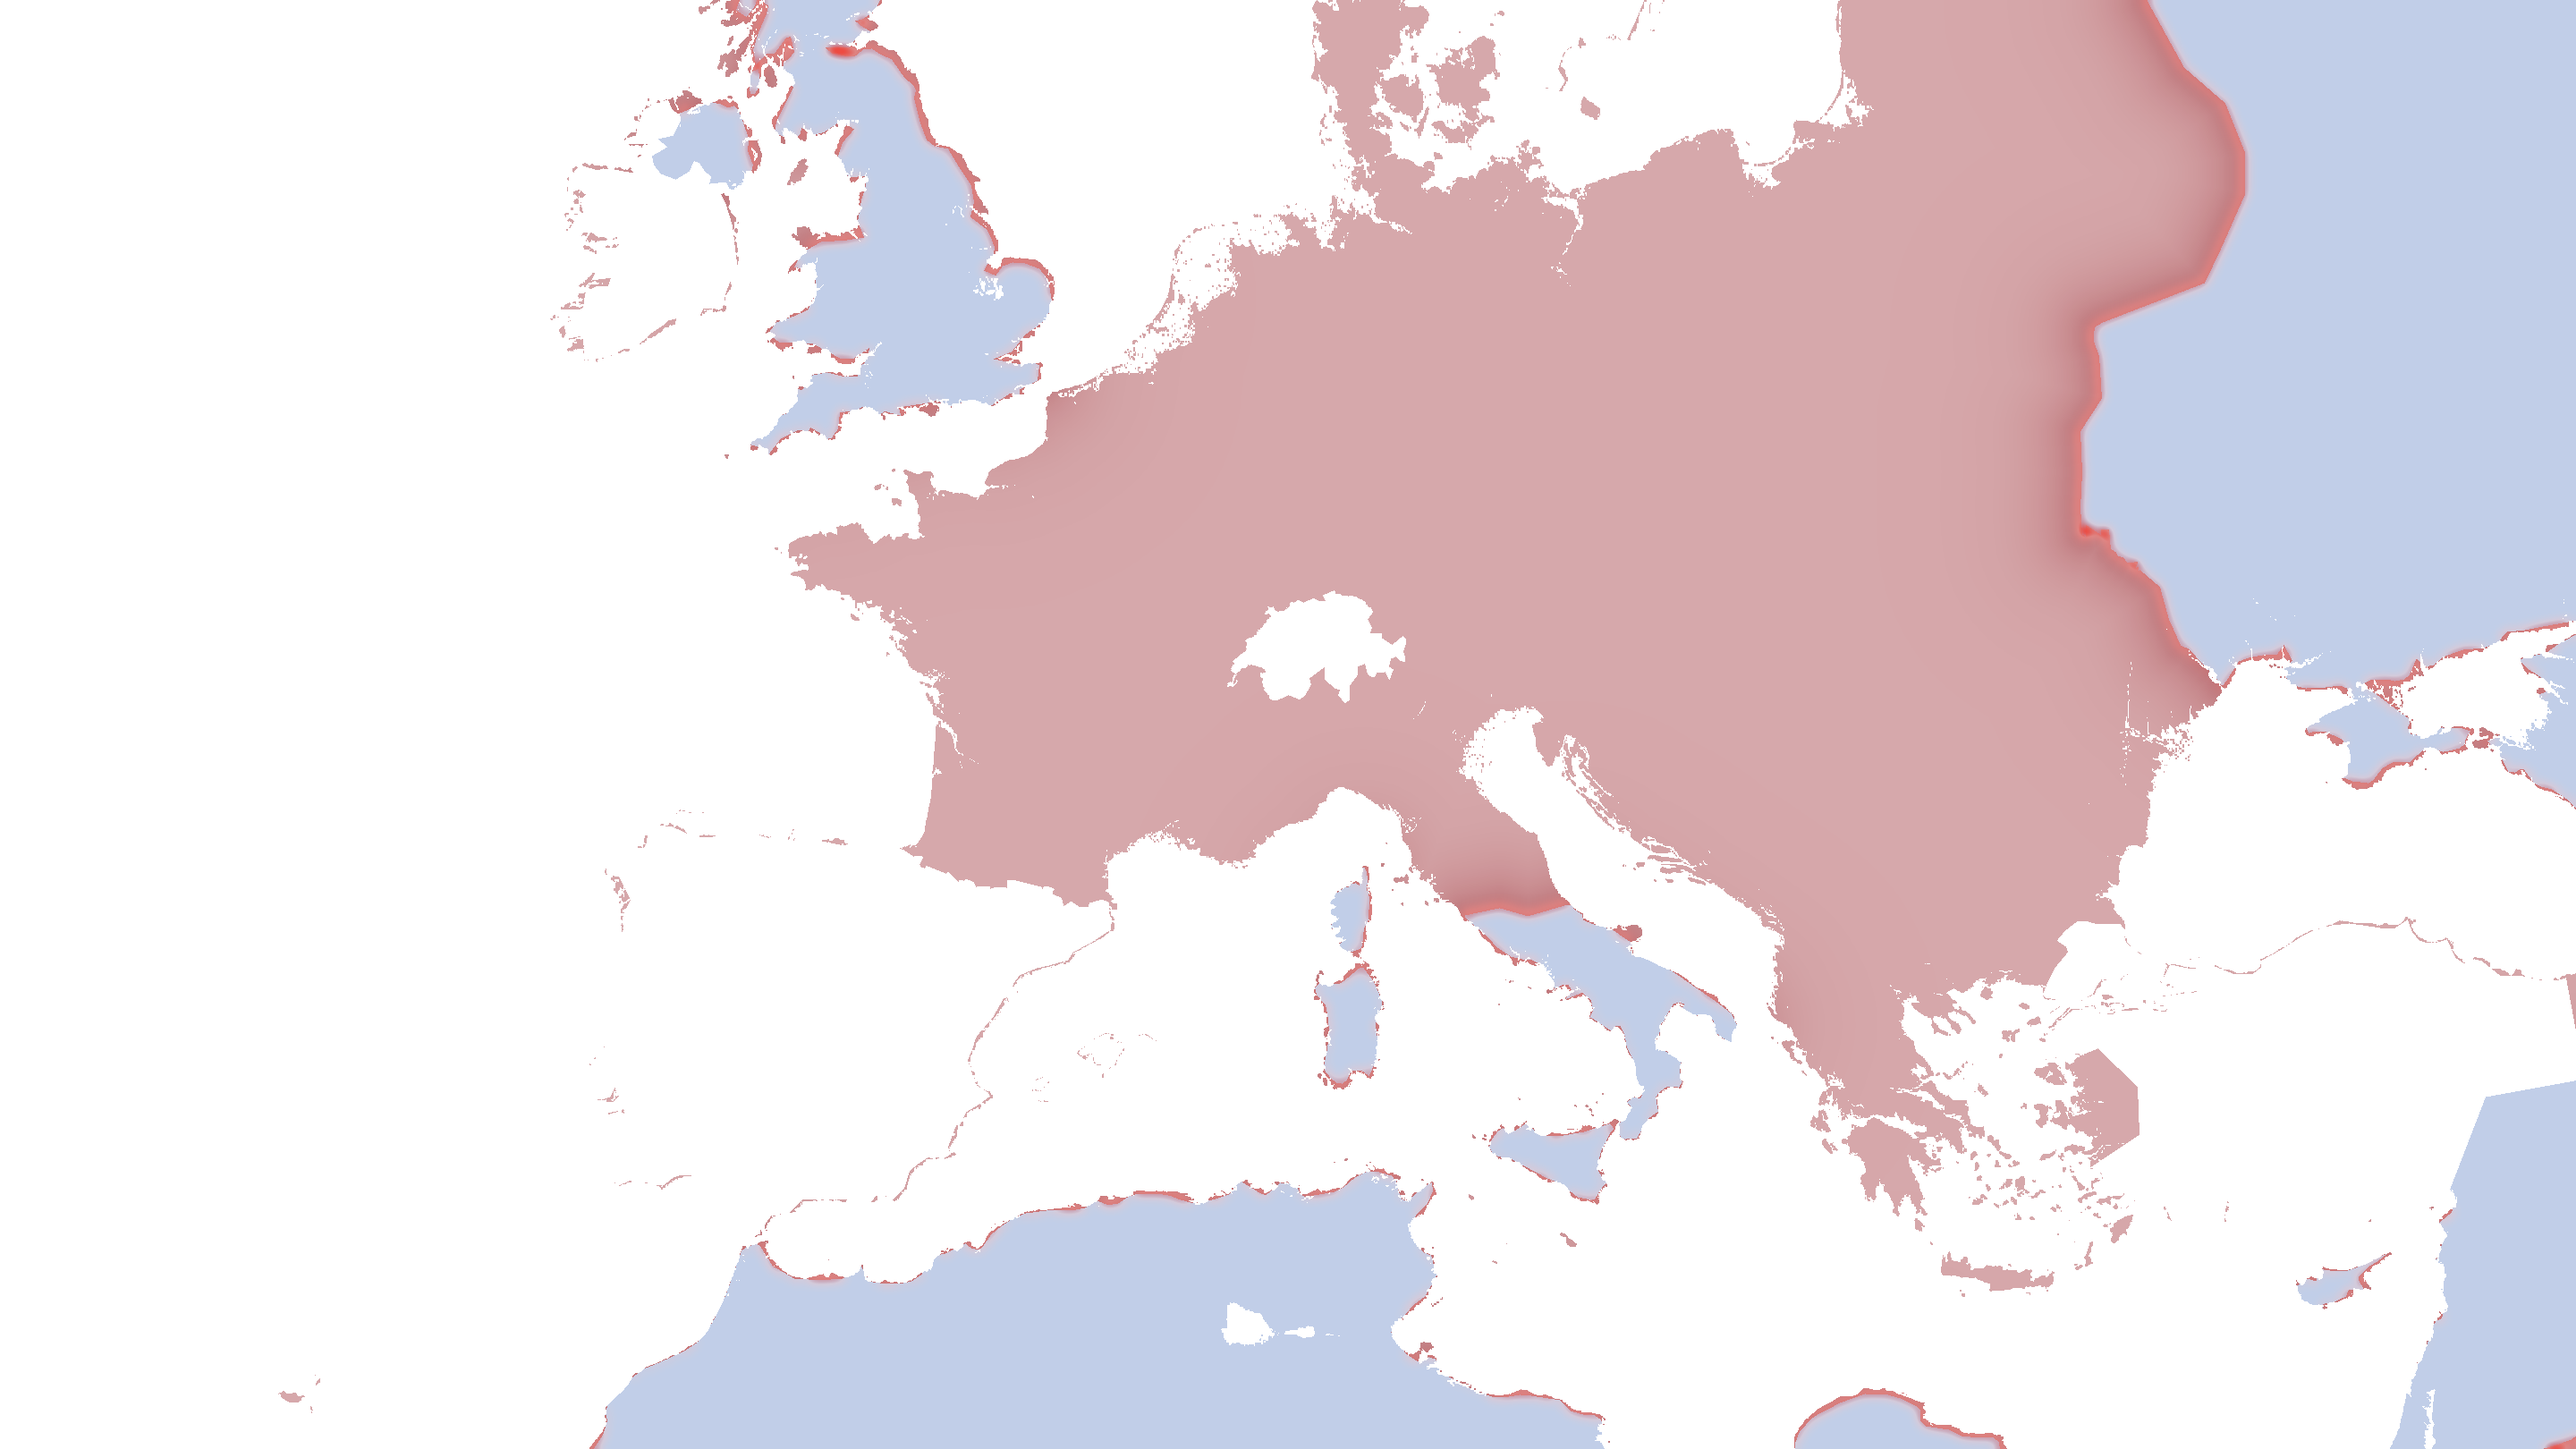
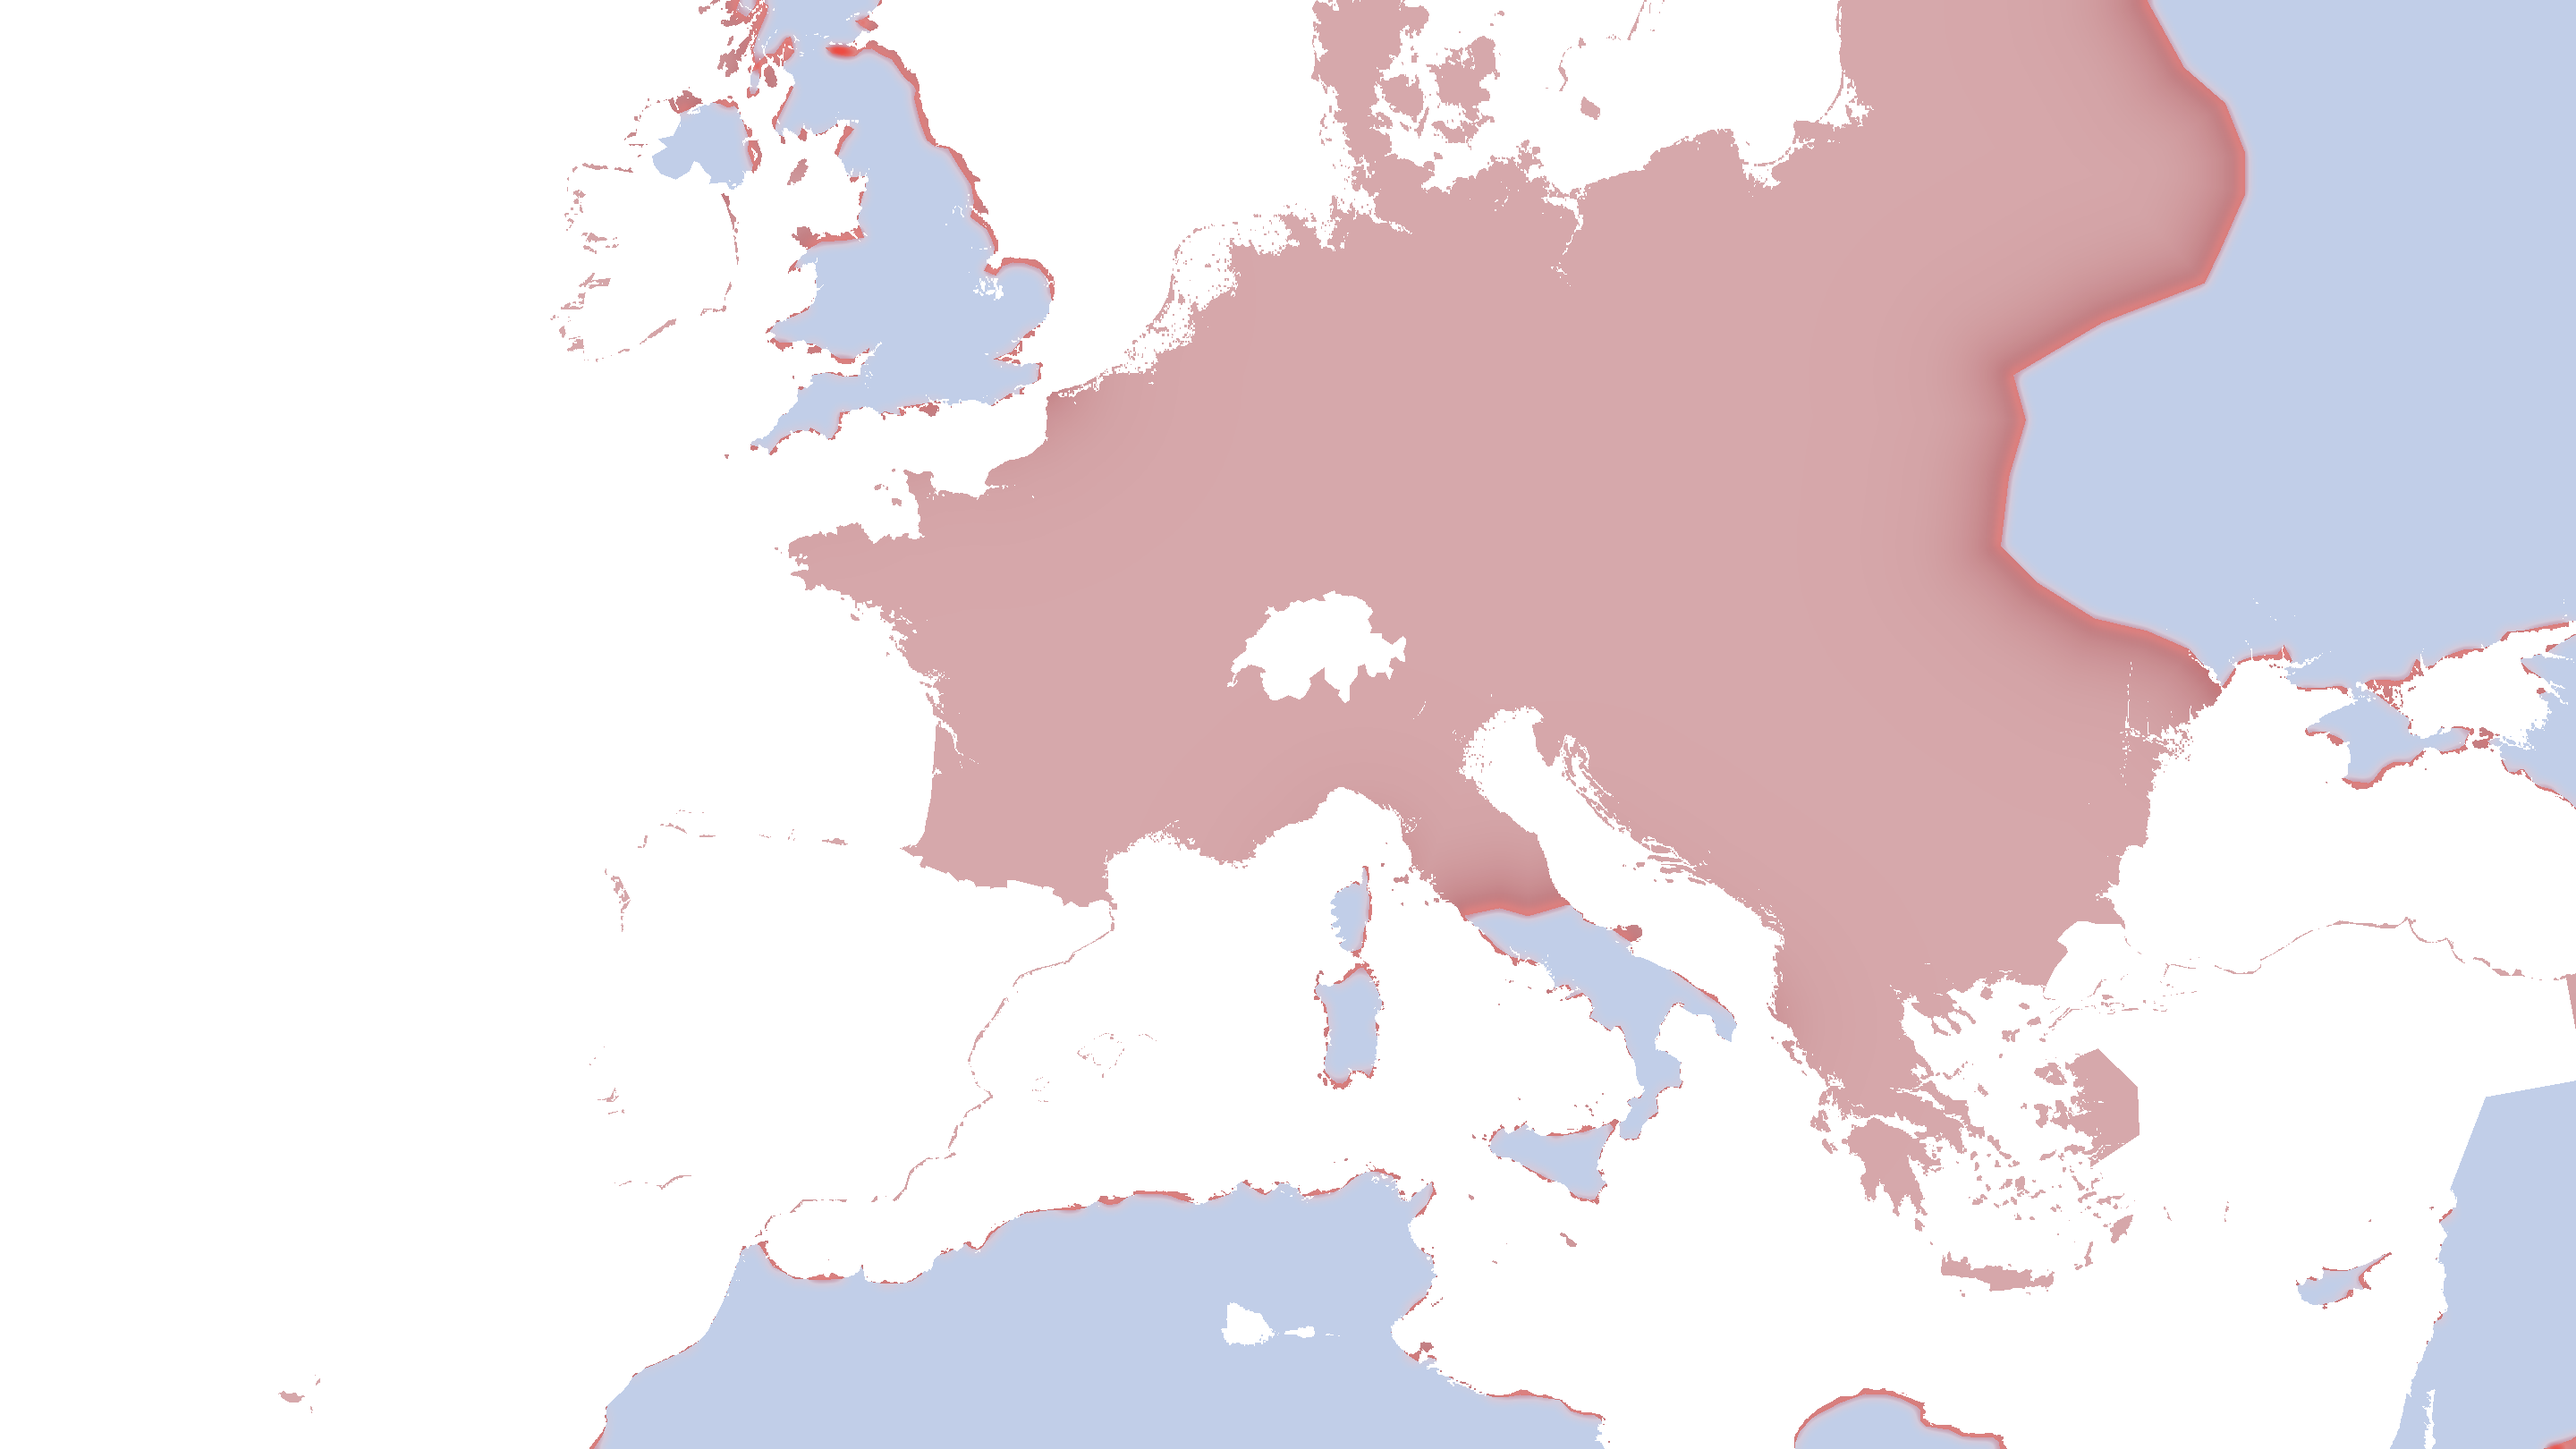
D-Day 1-min: emblem stays on Germany, USSR flag on Soviet-held ground, opening shot shows all of occupied Europe; eastern front corrected (everything east of the June 1944 front Soviet-held); 5 transports, spaced out (owner)
Claude-Session: https://claude.ai/code/session_01WkfTXMijzYmHkT983gtuMT

Changed region(s): [[0.75, 0.216, 0.8438, 0.463]]

diff --git a/frontlines-1m/scenes-src/europe_hd.js b/frontlines-1m/scenes-src/europe_hd.js
@@ -15,16 +15,17 @@ LV.clouds({ n: 7, opacity: 0.24 });
 LV.scaleBar(1714.41); LV.north();
 
 const [ex, ey] = G(50.9, 10.9), [nx, ny] = G(49.35, -1.1), [lx, ly] = G(51.6, -1.2);
-B.camera([[0, 1430, 820, 0.78], [T_COAST, 1400, 800, 0.82], [T_ENG, 1250, 720, 0.95], [S2, 1240, 740, 1.05], [T_13, 1180, 760, 1.6], [T_MISSION, nx + 10, ny - 10, 2.6], [END, nx + 20, ny - 5, 2.75]]);
+B.camera([[0, 1560, 790, 0.7], [T_COAST, 1500, 780, 0.74], [T_ENG, 1250, 720, 0.95], [S2, 1240, 740, 1.05], [T_13, 1180, 760, 1.6], [T_MISSION, nx + 10, ny - 10, 2.6], [END, nx + 20, ny - 5, 2.75]]);
 B.showDate(0.2); B.date("5 JUNE 1944", 0.4, null, 34);
 // the emblem stamped into Germany (reference), with a deep boom
-B.image("assets/media/emblem_ger.png", ex - 190, ey - 190, 380, 380, { t: T_FOUR - 0.3, dur: 1.4, opacity: 0.8, until: T_ENG - 0.2 });
+B.image("assets/media/emblem_ger.png", ex - 190, ey - 190, 380, 380, { t: T_FOUR - 0.3, dur: 1.4, opacity: 0.8 });  // owner: the emblem stays (no fade)
 SFX("ref:boom", T_FOUR - 0.3);
 const box = (txt, x, y, t, size = 26, until) => { SFX("ref:pop", t); return GG.pin(`<div style="background:#f1eee6;color:#111;font-family:Oswald;font-weight:500;letter-spacing:.32em;padding:${Math.round(size * 0.2)}px ${Math.round(size * 0.35)}px ${Math.round(size * 0.2)}px ${Math.round(size * 0.6)}px;font-size:${size}px;box-shadow:0 2px 8px rgba(0,0,0,.6)">${txt}</div>`, x, y, { t, until }); };
 box("OCCUPIED FRANCE", ...G(46.8, 2.4), T_COAST, 20, T_13);
 box("OCCUPIED NORWAY", ...G(61.0, 9.0), T_COAST + 0.4, 18, T_13);
 box("GREAT BRITAIN", ...G(53.2, -1.6), T_ENG - 0.2, 18, T_MISSION);
 const flag = (src, name, x, y, t, until, w = 90) => GG.pin(`<div style="display:flex;flex-direction:column;align-items:center;gap:4px"><img src="${src}" style="width:${w}px;display:block;border:2px solid #1a1712;box-shadow:0 3px 8px rgba(0,0,0,0.55)"><div class="gg-lbl" style="position:relative;font-size:22px;color:#f7f3ea;text-shadow:0 2px 4px #000;letter-spacing:0.08em">${name}</div></div>`, x, y, { t, pop: true, until });
+flag("assets/media/ussr_flag.png", "USSR", ...G(51.0, 26.8), T_FOUR + 0.6);  // owner: the Soviet Union must be visible too
 flag("assets/media/uk_flag.png", "BRITAIN", ...G(52.0, -3.6), T_ENG + 0.1, T_13); flag("assets/media/us_flag_48star.png", "USA", ...G(51.4, -4.6), T_ENG + 0.4, T_13);
 GG.card(`<div style="display:flex;gap:26px;font-size:22px;letter-spacing:0.08em;align-items:center"><span><b style="display:inline-block;width:20px;height:20px;background:#2e5cb2;vertical-align:-3px;margin-right:8px;border:1px solid #f7f3ea"></b>ALLIES</span><span><b style="display:inline-block;width:20px;height:20px;background:#8c0c14;vertical-align:-3px;margin-right:8px;border:1px solid #f7f3ea"></b>AXIS</span></div>`, "tr", 40, T_FOUR, S2);
 SFX("ref:whoosh", T_ENG - 0.4);
@@ -35,13 +36,13 @@ SFX("ref:whoosh", T_13 - 0.3); SFX("ref:riser", T_MISSION - 1.8);
 // the coast and turn back north for England, leaving the map (they never stop in mid-air)
 const along = (pts, k) => { let L = 0; const seg = []; for (let j = 1; j < pts.length; j++) { const d = Math.hypot(pts[j][0] - pts[j - 1][0], pts[j][1] - pts[j - 1][1]); seg.push(d); L += d; }
   return seg.slice(0, k).reduce((a, b) => a + b, 0) / L; };   // fraction of the flight at which point k is reached
-for (let i = 0; i < 9; i++) {
-  const y0 = ly + (i % 3) * 7 - 7, t = T_HOURS + 0.4 + i * 0.35, jx = (i % 4) * 4, jy = (i % 3) * 5;
-  const pts = [[lx - 20 + (i % 3) * 8, y0], [nx - 50, ny - 30 + (i % 3) * 6], [nx - 34, ny - 8 + jy], [nx - 8 + jx, ny - 6 + jy], [nx + 24 + jx, ny - 12 + jy], [nx + 34, ny - 70], [nx + 12, ny - 170]];
+for (let i = 0; i < 5; i++) {  // owner: fewer planes, more space between them
+  const y0 = ly + i * 12 - 24, t = T_HOURS + 0.4 + i * 0.6, jx = i * 6 - 12, jy = i * 7 - 14;
+  const pts = [[lx - 20 + i * 10, y0], [nx - 50, ny - 30 + jy], [nx - 34, ny - 8 + jy], [nx - 8 + jx, ny - 6 + jy], [nx + 24 + jx, ny - 12 + jy], [nx + 34, ny - 70], [nx + 12, ny - 170]];
   const dur = 7.0;
-  K.aircraft({ kind: "cargo", side: "carth", size: 22, alt: 8, pts, t, dur, until: t + dur, sfx: i % 3 ? false : undefined });
+  K.aircraft({ kind: "cargo", side: "carth", size: 22, alt: 8, pts, t, dur, until: t + dur, sfx: i % 2 ? false : undefined });
   const tDrop = t + dur * along(pts, 3);   // over the drop zone
-  for (let c = 0; c < 3; c++) GG.chute(nx - 12 + jx + c * 5, ny - 4 + jy + (c % 2) * 3, tDrop - 0.25 + c * 0.18, { s: 9, until: END + 1 });
+  for (let c = 0; c < 3; c++) GG.chute(nx - 14 + jx + c * 6, ny - 4 + jy + (c % 2) * 4, tDrop - 0.25 + c * 0.2, { s: 9, until: END + 1 });
 }
 const card = GG.card(`<div style="display:flex;align-items:center;gap:40px;font-weight:700;letter-spacing:0.04em"><div style="text-align:center"><div style="font-size:72px;line-height:1;color:#6f9bff">13,000</div><div style="font-size:20px;letter-spacing:0.3em;color:#c9d6ff">PARATROOPERS</div></div><div class="c2" style="text-align:center"><div style="font-size:72px;line-height:1;color:#6f9bff">800+</div><div style="font-size:20px;letter-spacing:0.3em;color:#c9d6ff">PLANES</div></div></div>`, "gg-odds", 820, T_13 - 0.2, T_DARK + 0.6);
 card.querySelector(".inner").style.padding = "16px 54px 20px"; GG.hide(card.querySelector(".c2"));

diff --git a/frontlines-1m/tools/make_dday_assets.py b/frontlines-1m/tools/make_dday_assets.py
@@ -12,6 +12,9 @@ EC.RETURN_MASKS = True
 feats = [f for f in json.load(open("assets/src/world_1938.geojson"))["features"] if f["geometry"]]
 eland = np.array(Image.open("assets/europe_land.png").convert("L")) > 127
 m = EC.build("jun5", feats, eland)
+# everything east of the June 1944 front was back in Soviet hands (incl. pre-war eastern Poland / western Ukraine): not only pre-war USSR
+east = ~EC.poly_mask([EC.EAST["jun5"] + [(-30, 30), (-30, 75)]]) & EC.poly_mask([[(15, 45.6), (45, 45.6), (45, 75), (15, 75)]])
+m["allied"] |= m["axis"] & east; m["axis"] &= ~east
 MA.grade("assets/europe.jpg", (~eland).astype(np.float32), "assets/europe_ref.jpg")
 MA.build("europe_ctlm_jun5", eland & ~m["neutral"], m["allied"])
 # Normandy (z10): all German-held on the night of 5 June; before dawn on 6 June, airborne pockets (approximate) around Sainte-Mere-Eglise

diff --git a/frontlines-1m/research/FACT_NOTES_dday.md b/frontlines-1m/research/FACT_NOTES_dday.md
@@ -21,3 +21,6 @@
 | largest seaborne invasion in history | standard description |
 | Utah H-Hour 06:30, 4th Infantry Division | VERIFIED. history.army.mil/books/wwii/utah |
 | Utah "about two hundred casualties", lightest of the five | VERIFIED: 197 (4th Div, D-Day; ~60 missing at sea), some say ~175, so "about". en.wikipedia.org/wiki/Utah_Beach |
+
+## Europe, 5 June 1944: eastern front fix (2026-10-06)
+- Everything east of the June 1944 front shown as Soviet-held (incl. pre-war eastern Poland / western Ukraine around Kovel, Rovno, Ternopil, and Crimea, retaken May 1944), not only pre-war USSR.
